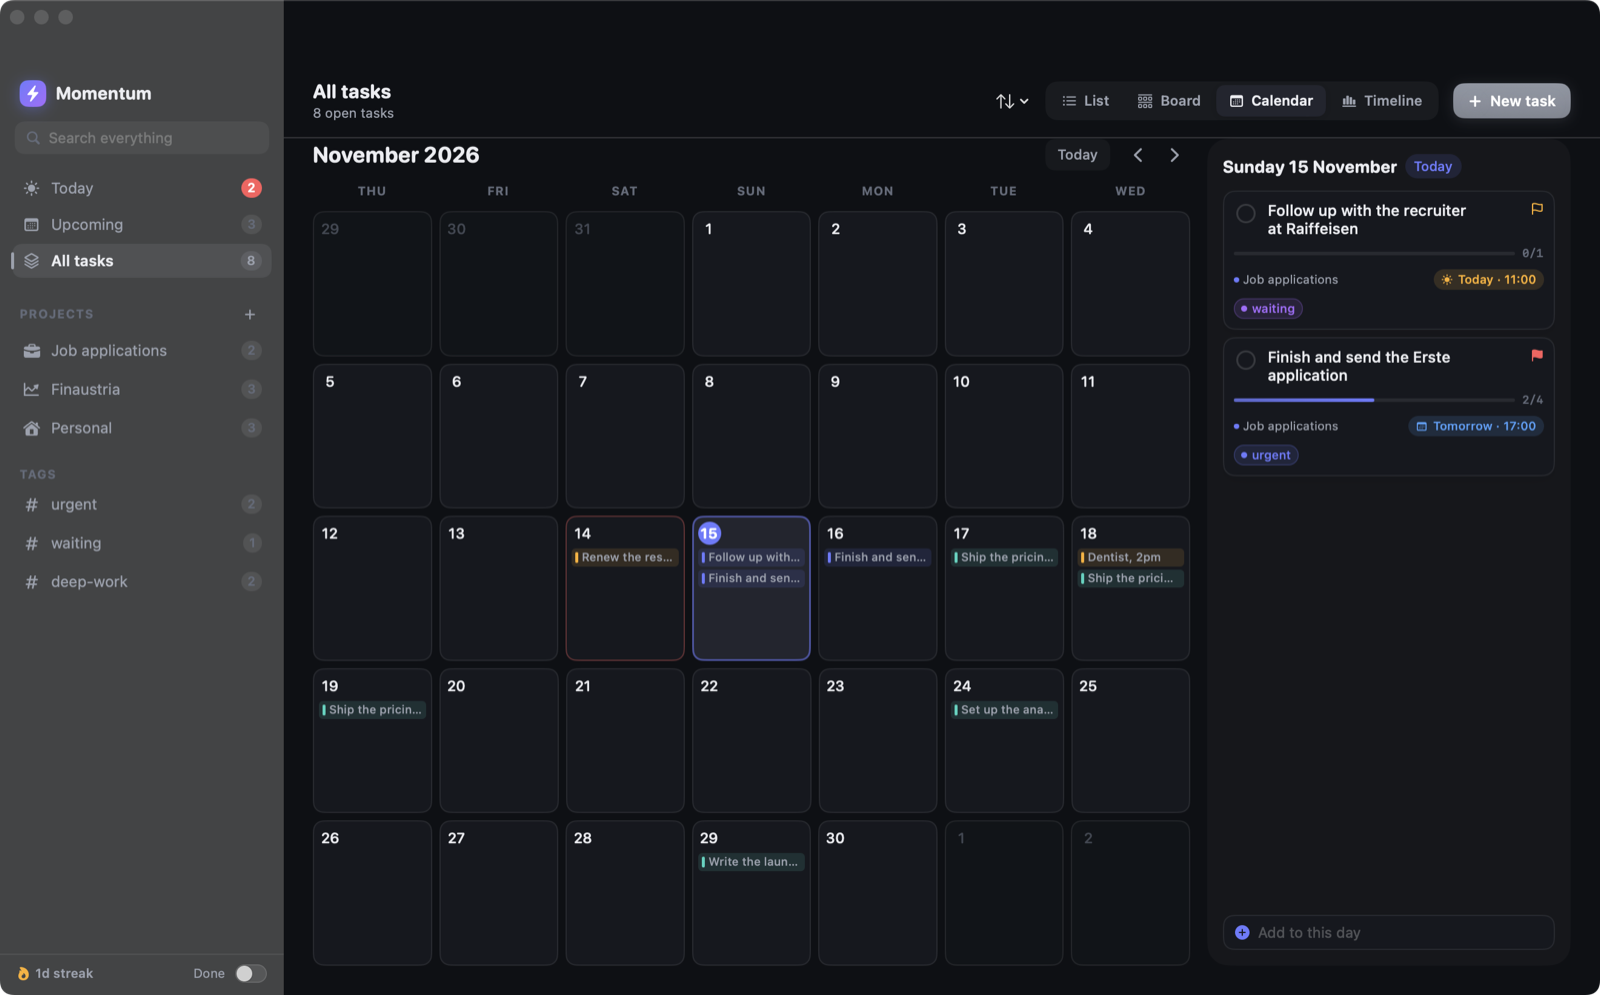
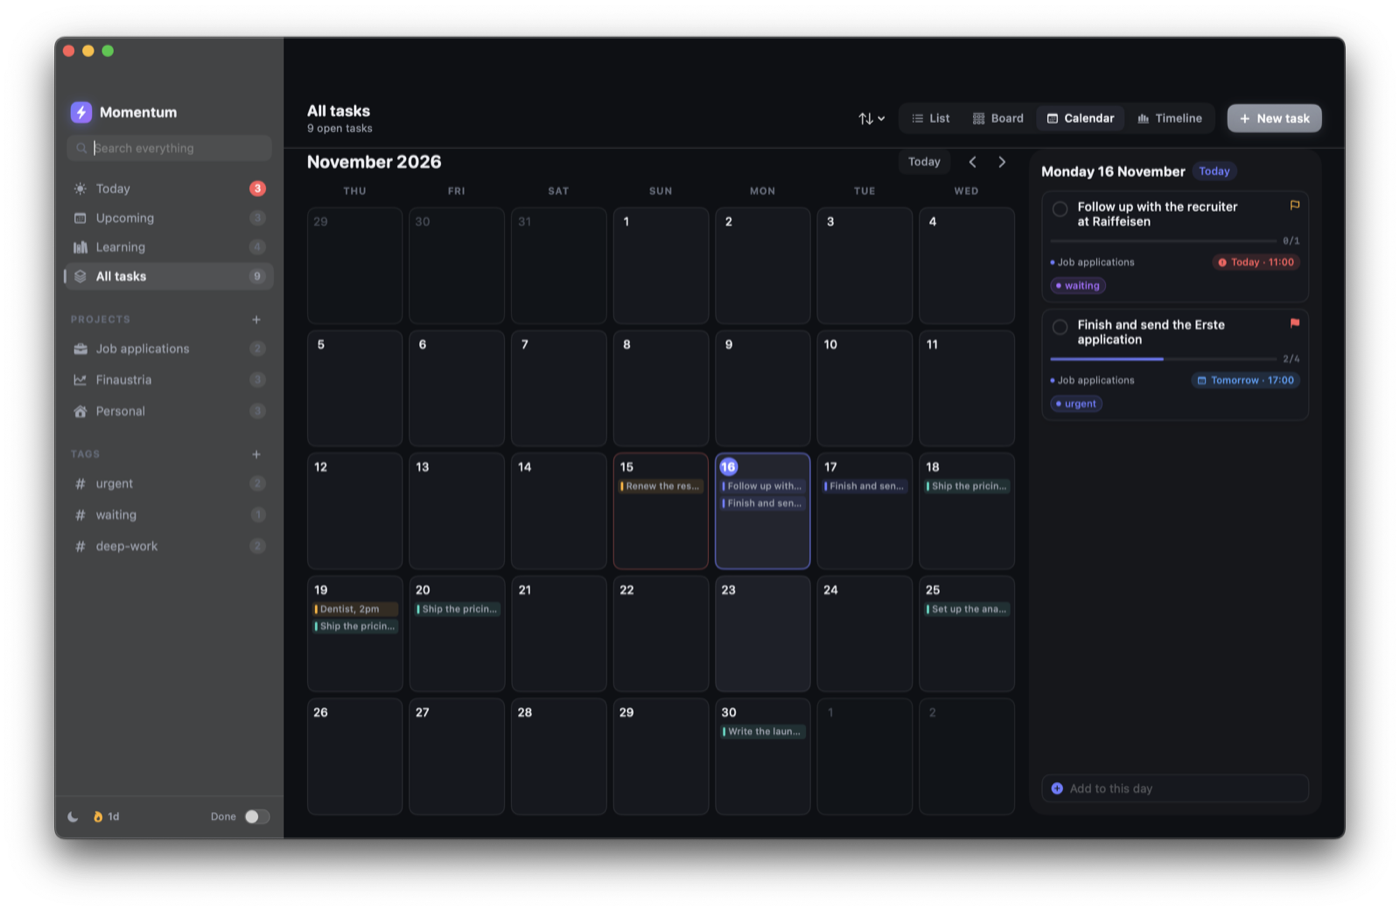
Reshoot the screenshots, with Learning among them
All five come from sample data on the current build, so the sidebar shows
Learning and the + beside TAGS, and the capture box shows the When?/Time rows.

Taking them turned up a real bug: a task due at 11:00 was still counted as
"due today" at 14:00 as well as overdue, so it was listed under both headings
on the Today screen and added twice to the menu bar badge. dueToday now means
due later today.

diff --git a/Sources/Store.swift b/Sources/Store.swift
@@ -166,8 +166,11 @@ final class AppStore: ObservableObject {
     var overdue: [Item] {
         tasks.filter { $0.isOverdue }.sorted { ($0.due ?? .distantFuture) < ($1.due ?? .distantFuture) }
     }
+    /// Due later today. Something due at 11:00 when it is 14:00 is overdue, not
+    /// "due today" — counting it in both made the menu bar badge add it twice
+    /// and listed the same row under two headings on the Today screen.
     var dueToday: [Item] {
-        tasks.filter { !$0.isDone && ($0.dueDayOffset == 0) }
+        tasks.filter { !$0.isDone && !$0.isOverdue && ($0.dueDayOffset == 0) }
             .sorted { ($0.due ?? .distantFuture) < ($1.due ?? .distantFuture) }
     }
     var dueSoon: [Item] {            // next 2–7 days

diff --git a/README.md b/README.md
@@ -112,6 +112,8 @@ Anything captured as a **Learning** category lands here, and every task has a
 **Links** tab in the inspector — so a project can collect resources too, and
 they show up on the shelf alongside the topics.
 
+![Learning](docs/learning.png)
+
 ### Bright and dark
 
 Two full themes, not one palette dimmed: every colour is defined twice, and the
